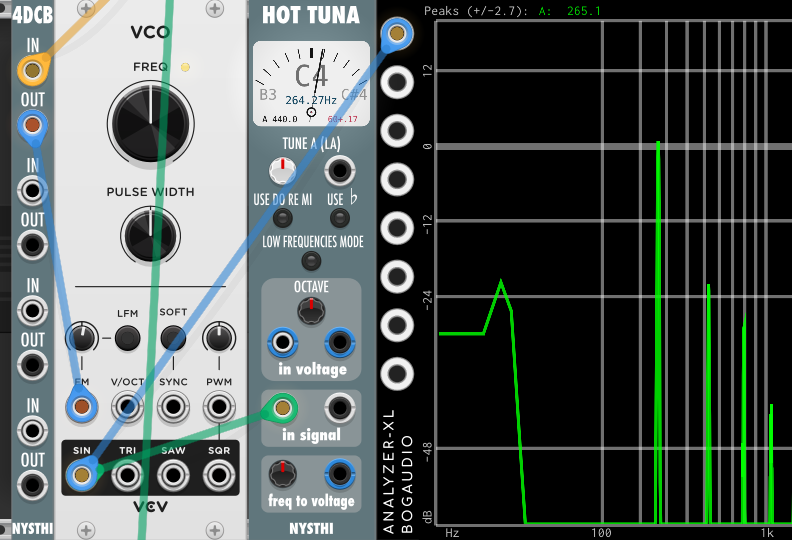
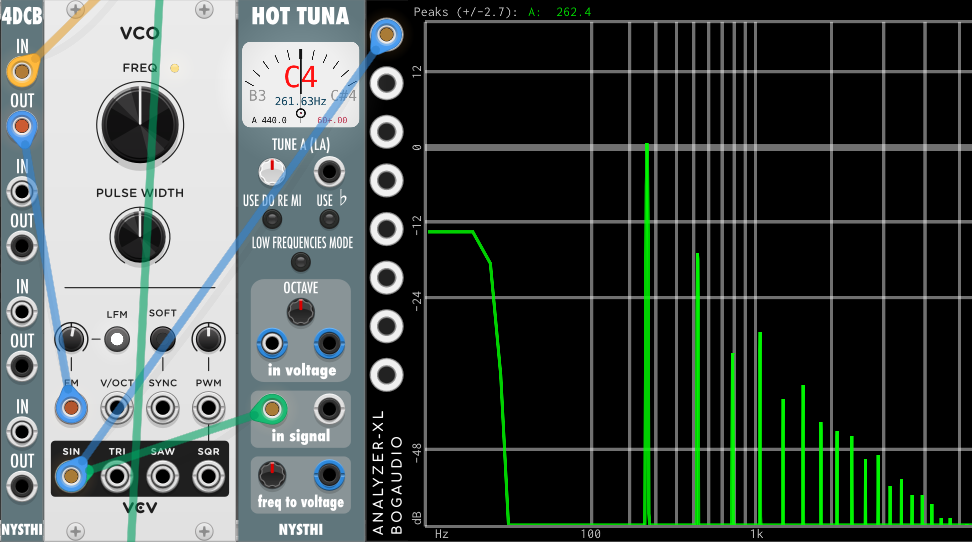
-

diff --git a/docs/fm-spectrum.md b/docs/fm-spectrum.md
@@ -1,0 +1,15 @@
+# FM Spectrum changes with frequency
+
+When you transpose a PM patch, the spectrum stays the same, just like it would with an analog VCO or a wavetable. But when you transpose an FM patch up, the harmonics are reduced.
+
+This follows mathematically from the formulas at the start, but let's see it on the analyzer. Just in case the calculus is a little rusty.
+
+But first things first. Neither of these it "right" they are just different. Yes, the PM sound a little more like what we might expect, and will sound a bit brighter as it rises in pitch. Conversely the FM will get quite a bit duller as it raises in pitch. Both are useful.
+
+Here is an image that shows this. The top row is PM, the bottom row is FM. The left column is fundamental = 100Hz, the the second is 2000Hz. In all cases, the sine from an FM-OP is uses as the modulator. A VCV 8 Vert is supplying the pitch CV to all of them.
+
+![Transpose Images](./fm-transpose.png)
+
+If you look at the left column, you can see we have set both the PM and FM vco with enough FM to generate a harmonic at 200Hz. that is about 11 Db below the fundamental, and a harmonic at 300Hz. that is about 32 Db below the fundamental.
+
+Then on the right side we have transposed everything up about 4 1/2 octaves. The PM, in the lower right still has that spectrum, with harmonics at -12 Db and -32 Db. But the FM VCO is now much mellower, with harmonics at about -38 Db and -28 Db

diff --git a/docs/fm-tune.md b/docs/fm-tune.md
@@ -33,8 +33,10 @@ You can see that both of the VCOs got more harmonics by virtue of the linear FM/
 
 You can see also the the shape of the spectra are different, too. The harmonics on the FM VCO fall off much faster then on the PM VCO. This is due to differences between PM and FM, but it's not a very realistic patch. Rarely would one use a sawtooth for a modulator.
 
-Note that as expected, if we add a DC block module at the FM input we can avoid this out of tune. As we said, the shift in pitch is caused by DC on the input. FM is very sensitive to it, and PM is immune to it.
+As expected, if we add a DC block module at the FM input we can avoid this out of tune. As we said, the shift in pitch is caused by DC on the input. FM is very sensitive to it, and PM is immune to it.
 
 ![With DC Block](./fm-dc-block.png)
 
-Note that even with the DC block the FM is very slightly out of tune. I suspect this is a small imperfection in the DC block, but I'm not sure.
+Note that even with the DC block the FM is new completely in tune.
+
+The next page shows how [FM changes spectrum with frequency](./fm-spectrum.md).
